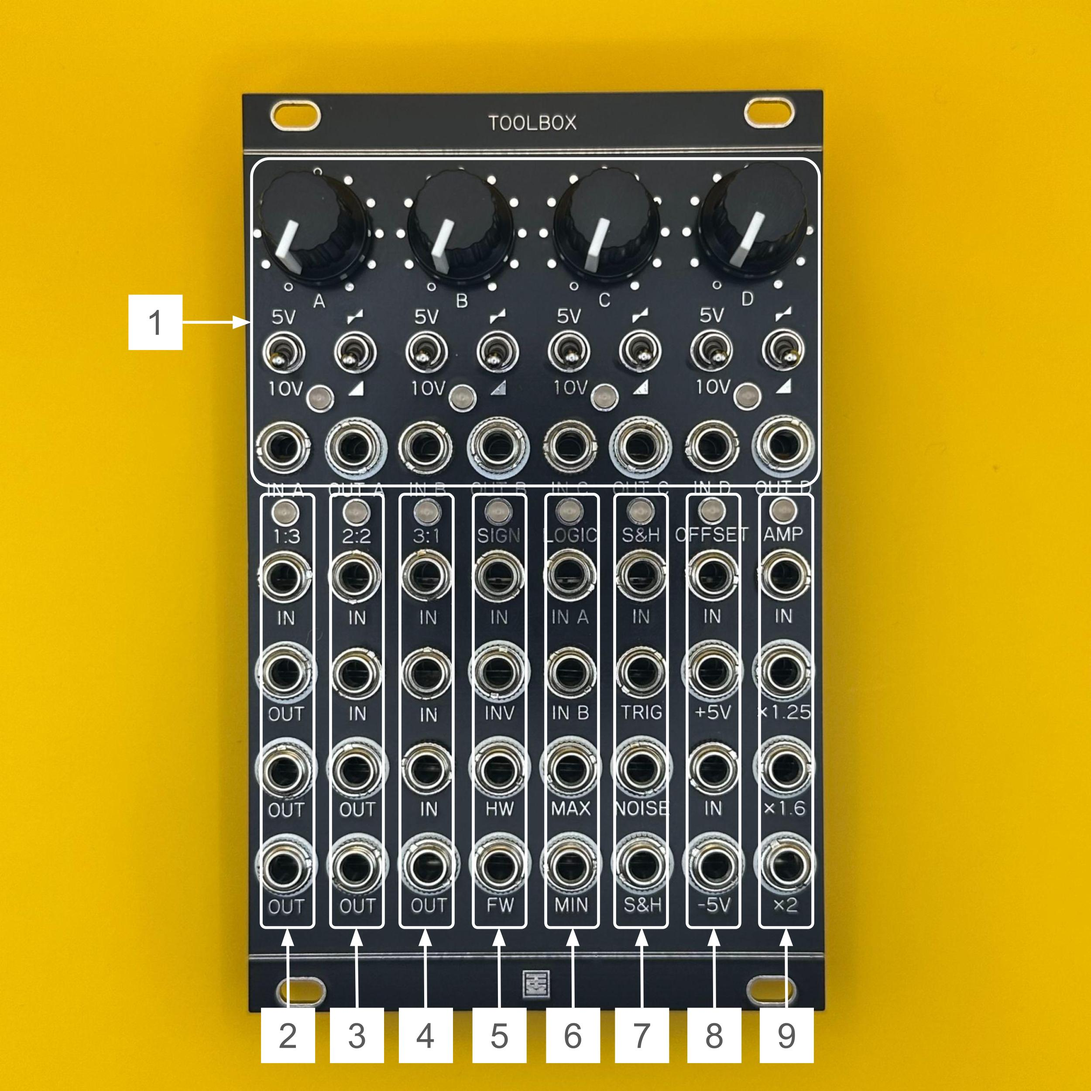
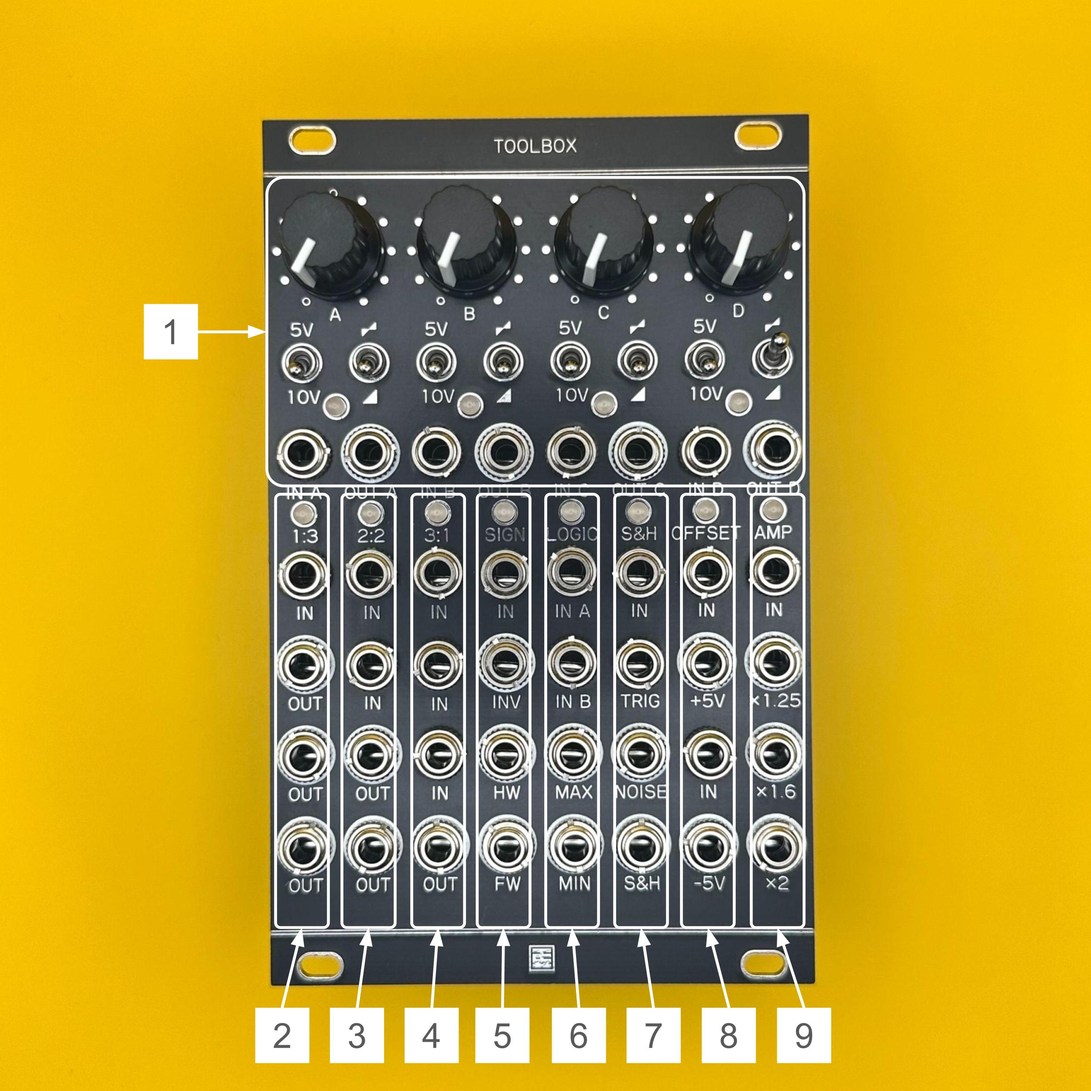
画像差し替え

diff --git a/README.md b/README.md
@@ -1,5 +1,6 @@
 # Toolbox
-![Toolbox Front](v1.0/Images/Toolbox_Front.jpeg)
+
+![Toolbox Front](v1.0/Images/Toolbox_Front.jpg)
 
 ## 概要 / Overview
 
@@ -51,7 +52,7 @@ Key features include:
 ## 販売 / Sales
 
 StudioKATオフィシャルショップで販売しています。(日本国内限定)  
-https://www.studiokat.jp/
+https://www.studiokat.jp/items/106541624
 
 
 ## ライセンス / License
@@ -70,4 +71,4 @@ This work is licensed under the [Creative Commons Attribution-ShareAlike 4.0 Int
 
 ## 更新履歴 / Changelog
 
-- `2025-04-24` v1.0 Released version 1.0  
+- `2025-05-28` v1.0 Released 

diff --git a/v1.0/Manual/Toolbox_Manual_EN.md b/v1.0/Manual/Toolbox_Manual_EN.md
@@ -1,6 +1,6 @@
 # Toolbox Manual (English)
 
-![Toolbox Front](../Images/Toolbox_Front.jpeg)
+![Toolbox Front](../Images/Toolbox_Front.jpg)
 
 ## Overview
 
@@ -101,4 +101,4 @@ This work is licensed under a [Creative Commons Attribution-ShareAlike 4.0 Inter
 
 ## Changelog
 
-- `2025-04-24`: v1.0 Released  
+- `2025-05-28`: v1.0 Released  
